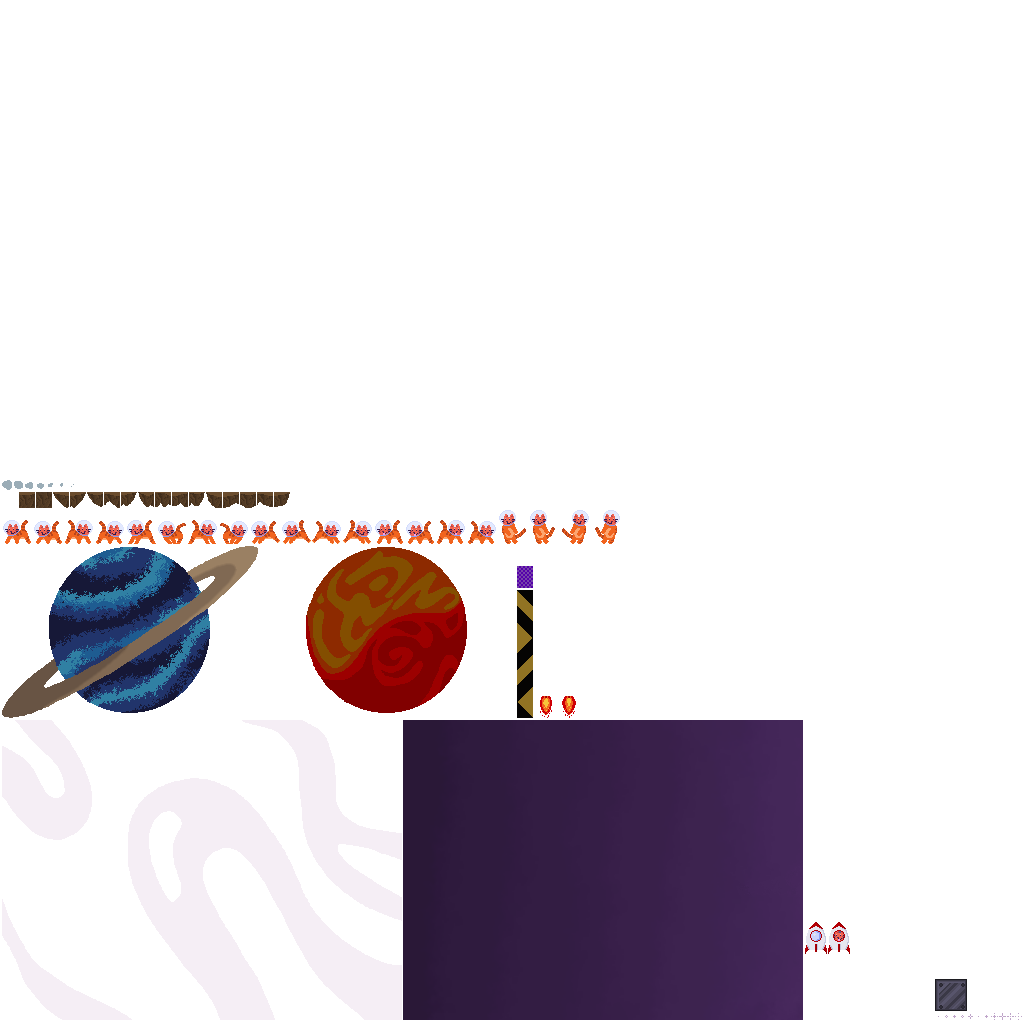
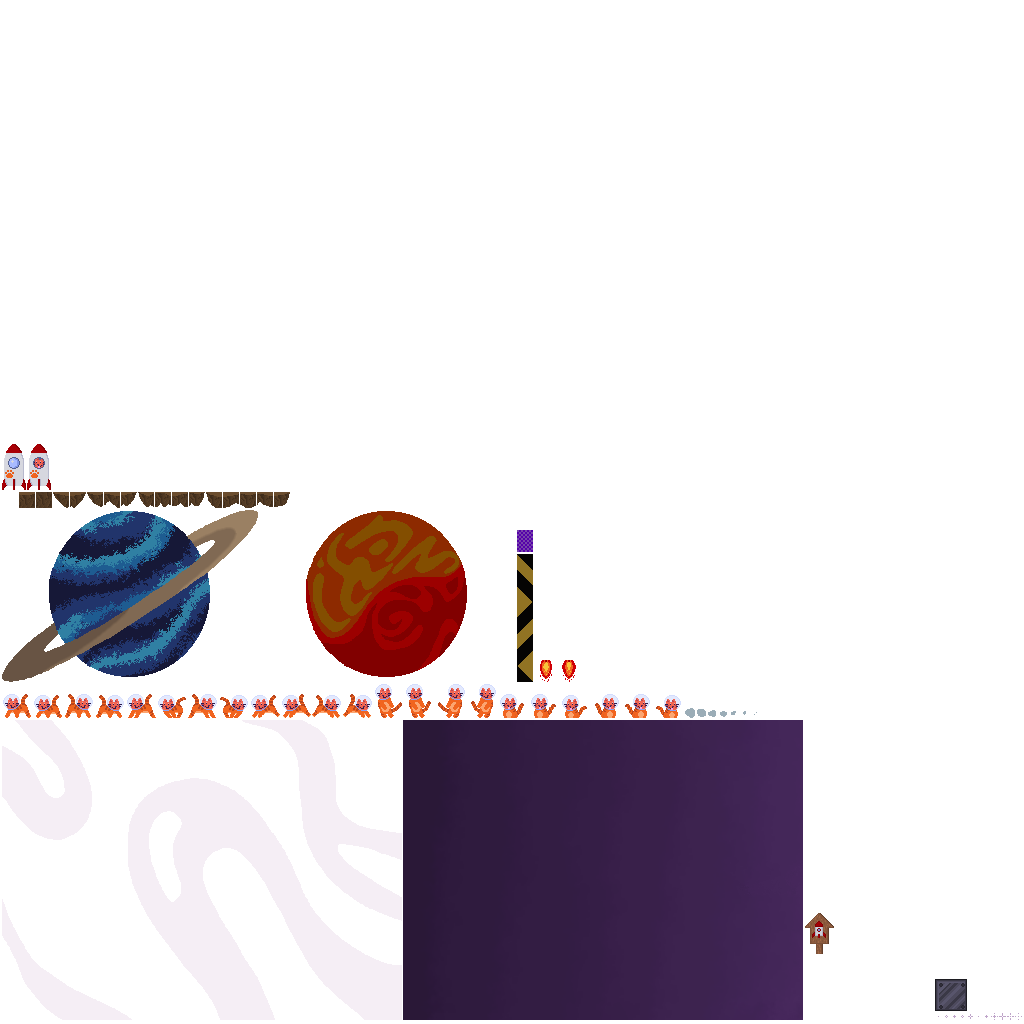
fire added to rocket, sitting added to cat, signs added

Changed region(s): [[0.0, 0.4375, 0.6875, 0.7188], [0.7812, 0.875, 0.8438, 0.9375]]

diff --git a/core/src/me/schmausio/limspace/Main.java b/core/src/me/schmausio/limspace/Main.java
@@ -19,79 +19,79 @@ public class Main extends ApplicationAdapter
 
   public final static int SCREEN_WIDTH = 400, SCREEN_HEIGHT = 300;
 
-	public static final boolean DEBUG = true;
+  public static final boolean DEBUG = true;
 
-	public static final boolean RENDER_DEBUG_INFO = false;
-	public static final boolean RELEASE = false;
+  public static final boolean RENDER_DEBUG_INFO = false;
+  public static final boolean RELEASE = false;
 
   @Override
   public void create()
   {
-		// TESTING
+    // TESTING
 
-		camera = new OrthographicCamera();
-		viewport = new FitViewport(SCREEN_WIDTH, SCREEN_HEIGHT, camera);
+    camera = new OrthographicCamera();
+    viewport = new FitViewport(SCREEN_WIDTH, SCREEN_HEIGHT, camera);
 
-		batch = new SpriteBatch();
-		Res.load();
+    batch = new SpriteBatch();
+    Res.load();
 
-		Text.init();
+    Text.init();
 
-		Config.load_config(true);
+    Config.load_config(true);
 
-		World.level_name = "schmausel";
-		World.init_status(World.WorldStatus.LOAD_LEVEL);
+    World.level_name = "schmausel";
+    World.init_status(World.WorldStatus.LOAD_LEVEL);
   }
 
-	@Override
-	public void render()
-	{
-		// TODO: 30.09.23 change color 
-		ScreenUtils.clear(145 / 255f,220 / 255f,233 / 255f, 1);
+  @Override
+  public void render()
+  {
+    // TODO: 30.09.23 change color
+    ScreenUtils.clear(145 / 255f, 220 / 255f, 233 / 255f, 1);
 
-		float d = Gdx.graphics.getDeltaTime();
+    float d = Gdx.graphics.getDeltaTime();
 
-		update(Math.min(d, 0.1f));
+    update(Math.min(d, 0.1f));
 
-		camera.update();
-		batch.setProjectionMatrix(camera.combined);
+    camera.update();
+    batch.setProjectionMatrix(camera.combined);
 
-		batch.begin();
+    batch.begin();
 
-		World.render();
+    World.render();
 
-		// for now no sorting of the text entries happens, since it is not needed in this project
-		for (int i = 0; i < smx_text_data.num_lines(); i++)
-		{
-			Text.render_from_text_smx(smx_text_data, i);
+    // for now no sorting of the text entries happens, since it is not needed in this project
+    for (int i = 0; i < smx_text_data.num_lines(); i++)
+    {
+      Text.render_from_text_smx(smx_text_data, i);
 
-			// free entries after rendering
-			smx_text_data.clear_line(i);
-		}
+      // free entries after rendering
+      smx_text_data.clear_line(i);
+    }
 
-		batch.end();
-	}
+    batch.end();
+  }
 
-	@Override
-	public void resize(int width, int height)
-	{
-		viewport.update(width, height, true);
-	}
+  @Override
+  public void resize(int width, int height)
+  {
+    viewport.update(width, height, true);
+  }
 
-	private void update(float delta)
-	{
-		World.update(delta);
-	}
+  private void update(float delta)
+  {
+    World.update(delta);
+  }
 
-	@Override
-	public void dispose()
-	{
-		if(Main.DEBUG)
-		{
-			World.save_chunks();
-		}
-		batch.dispose();
-		Res.dispose();
-		Text.dispose();
-	}
+  @Override
+  public void dispose()
+  {
+    if (Main.DEBUG)
+    {
+      World.save_chunks();
+    }
+    batch.dispose();
+    Res.dispose();
+    Text.dispose();
+  }
 }

diff --git a/core/src/me/schmausio/limspace/Entity.java b/core/src/me/schmausio/limspace/Entity.java
@@ -37,6 +37,8 @@ public class Entity
   static int wutz_life = 3;
   static float time_blink = 0f;
 
+  public static float cat_wait = 0f;
+
   static float check_point_x = Chunk.TILE_SIZE * 10;
   static float check_point_y = Chunk.TILE_SIZE * 30;
 
@@ -438,6 +440,17 @@ public class Entity
       float[] ret = anim.update(anim_time, delta);
       anim_time = ret[0];
     }
+
+    if (type == EntityType.PLAYER)
+    {
+      if (vx == 0 && vy == 0)
+      {
+        cat_wait += delta;
+      } else
+      {
+        cat_wait = 0f;
+      }
+    }
   }
 
   public void render()
@@ -445,7 +458,7 @@ public class Entity
     float px = World.global_offset_x + posx;
     float py = World.global_offset_y + posy;
 
-    if(dead ) return;
+    if (dead) return;
 
     switch (type)
     {
@@ -461,8 +474,17 @@ public class Entity
       }
       break;
       case ROCKET:
+      {
         Main.batch.draw(Res.ROCKET_CAT.sheet[0], px - Res.ROCKET_CAT.sheet[0].getRegionWidth() / 2f, py);
-        break;
+      }
+      break;
+
+      case SIGN:
+      {
+        Main.batch.draw(Res.SIGN.region, px - Res.SIGN.region.getRegionWidth() / 2f, py);
+      }
+      break;
+
       //case ENEMY_MUSHROOM:
       //{
       //   TextureRegion reg = Res.get_frame(anim_time, anim, flip);
@@ -486,6 +508,9 @@ public class Entity
     PLAYER(true, false, false),
 
     ROCKET(false, false, true),
+
+    SIGN(false, false, true),
+
 
     ;
 
@@ -519,8 +544,12 @@ public class Entity
       switch (this)
       {
         case PLAYER:
-          // TODO: 30.09.23 fix
-          ret = right ? Anim.CAT_IDLE_RIGHT : Anim.CAT_IDLE_LEFT;
+          if(cat_wait > Config.CONF.TIME_SIT.value){
+            ret = right ? Anim.CAT_SCHLECK_RIGHT : Anim.CAT_SCHLECK_LEFT;
+          }else
+          {
+            ret = right ? Anim.CAT_IDLE_RIGHT : Anim.CAT_IDLE_LEFT;
+          }
           break;
       }
       return ret;

diff --git a/core/src/me/schmausio/limspace/World.java b/core/src/me/schmausio/limspace/World.java
@@ -132,6 +132,8 @@ public class World
   public static int rocket_start_x, rocket_start_y;
   public static float rocket_progress = 0f;
 
+  public static float fire_anim_progress = 0f;
+
   static
   {
     gameover_pause_back.a = 0.5f;
@@ -364,6 +366,10 @@ public class World
             }
           }
         }
+
+        float[] ret_val = Anim.ROCKET_FIRE.update(fire_anim_progress, delta);
+        fire_anim_progress = ret_val[0];
+
       }
       break;
 
@@ -1042,6 +1048,9 @@ public class World
 
           Text.draw("num. entities " + list_entities.size, 2, Main.SCREEN_HEIGHT - debug_off, debug_text_color);
           debug_off += 10;
+
+          Text.draw("cat wait " + Entity.cat_wait, 2, Main.SCREEN_HEIGHT - debug_off, debug_text_color);
+          debug_off += 10;
         }
 
         global_offset_x = -player.posx + Main.SCREEN_WIDTH / 2f + camera_offset_x;
@@ -1152,6 +1161,8 @@ public class World
 
           float rocket_lerped_x = MathUtils.lerp(rocket_start_x, rocket_start_x + 30, Interpolation.smooth.apply(rocket_progress));
           float rocket_lerped_y = MathUtils.lerp(rocket_start_y, rocket_start_y + 250, Interpolation.smooth.apply(rocket_progress));
+
+          Main.batch.draw(Res.ROCKET_FIRE.sheet[Anim.ROCKET_FIRE.get_frame(fire_anim_progress)], rocket_lerped_x - Res.ROCKET_FIRE.sheet[0].getRegionWidth() / 2f, rocket_lerped_y - Config.CONF.ROCKET_FIRE_YOFF.value);
           Main.batch.draw(Res.ROCKET_CAT.sheet[1], rocket_lerped_x - Res.ROCKET_CAT.sheet[1].getRegionWidth() / 2f, rocket_lerped_y);
         }
       }

diff --git a/core/src/me/schmausio/limspace/Chunk.java b/core/src/me/schmausio/limspace/Chunk.java
@@ -49,6 +49,13 @@ public class Chunk implements Json.Serializable
             World.list_spawn.add(entity);
           }
           break;
+          case SIGN:
+          {
+            Entity entity = new Entity(px, py, Entity.EntityType.SIGN);
+            entity.origin_chunk = combined_pos;
+            World.list_spawn.add(entity);
+          }
+          break;
         }
       }
     }
@@ -120,7 +127,7 @@ public class Chunk implements Json.Serializable
         Main.batch.setColor(Color.WHITE);
         Main.batch.draw(Res.PLATFORM.sheet[tiles.get(ix, iy)], px, py);
 
-        if(World.status == World.WorldStatus.EDIT_CHUNKS)
+        if (World.status == World.WorldStatus.EDIT_CHUNKS)
         {
           Chunk_Object co = Chunk_Object.safe_ord(objects.get(ix, iy));
           if (co != Chunk_Object.NONE)
@@ -242,6 +249,8 @@ public class Chunk implements Json.Serializable
     // objects encoded in G value of a pixel in the chunk image
     NONE,
     ROCKET,
+
+    SIGN,
     ;
 
     public static Chunk_Object safe_ord(int ordinal)
@@ -262,6 +271,9 @@ public class Chunk implements Json.Serializable
       {
         case ROCKET:
           ret = Res.ROCKET_CAT.sheet[0];
+          break;
+        case SIGN:
+          ret = Res.SIGN.region;
           break;
       }
       return ret;

diff --git a/core/src/me/schmausio/limspace/Res.java b/core/src/me/schmausio/limspace/Res.java
@@ -15,7 +15,7 @@ public enum Res
 
   PLATFORM(Tile.values().length, 16, 16),
 
-  CAT(20, 30, 34),
+  CAT(22, 30, 34),
 
   BACKGROUND(2, 400,300),
 
@@ -25,13 +25,15 @@ public enum Res
 
   WALL_BLOCK(),
 
-  ROCKET_CAT(3, 22, 32),
+  ROCKET_CAT(2, 24, 46),
 
   ROCKET_FIRE(2, 22,22),
 
   PLANETS(2, 256,172),
 
   SMOKE(7, 10, 10),
+
+  SIGN(),
   ;
 
   static final Array<Anim> load_queue = new Array<>();
@@ -82,10 +84,10 @@ public enum Res
     load_queue.add(Anim.CAT_RUN_RIGHT);
     load_queue.add(Anim.CAT_FALL_LEFT);
     load_queue.add(Anim.CAT_FALL_RIGHT);
-    load_queue.add(Anim.CAT_SCHLECK_LEFT);
-    load_queue.add(Anim.CAT_SCHLECK_RIGHT);
     load_queue.add(Anim.CAT_JUMP_LEFT);
     load_queue.add(Anim.CAT_JUMP_RIGHT);
+    load_queue.add(Anim.CAT_SCHLECK_LEFT);
+    load_queue.add(Anim.CAT_SCHLECK_RIGHT);
     load_anims(CAT, 0);
     load_queue.clear();
 

diff --git a/core/src/me/schmausio/limspace/Anim.java b/core/src/me/schmausio/limspace/Anim.java
@@ -12,10 +12,11 @@ public enum Anim
   CAT_RUN_RIGHT(2, 0.08f, -1, false, 0, 1),
   CAT_FALL_LEFT(2, 0.2f, -1, false, 0, 1),
   CAT_FALL_RIGHT(2, 0.2f, -1, false, 0, 1),
-  CAT_SCHLECK_LEFT(2, 0.2f, -1, false, 0, 1),
-  CAT_SCHLECK_RIGHT(2, 0.2f, -1, false, 0, 1),
   CAT_JUMP_LEFT(2, 0.2f, -1, false, 0, 1),
   CAT_JUMP_RIGHT(2, 0.2f, -1, false, 0, 1),
+
+  CAT_SCHLECK_LEFT(3, 0.2f, -1, false, 0, 1, 2),
+  CAT_SCHLECK_RIGHT(3, 0.2f, -1, false, 0, 1, 2),
 
   STAR_STATIC(3, 0.1f, -1, false, 0, 1, 2),
   STAR_DYNAMIC_1(2, 0.8f, -1, false, 0, 1),
@@ -23,6 +24,7 @@ public enum Anim
   STAR_DYNAMIC_3(3, 0.6f, -1, false, 0, 1, 2),
 
   //ROCKET(2, 0.2f, -1, false, 0, 1),
+  ROCKET_FIRE(2, 0.1f, -1, false, 0, 1),
 
   SMOKE(7, 0.5f, -1, false, 0, 1, 2, 3, 4, 5, 6),
 

diff --git a/core/src/me/schmausio/limspace/Config.java b/core/src/me/schmausio/limspace/Config.java
@@ -82,9 +82,11 @@ public class Config
       WALL_VERTICAL_NUMBER,
       PLAYER_SPAWN_TILEX,
       PLAYER_SPAWN_TILEY,
+      TIME_SIT,
       ROCKET_SPEED,
       ROCKET_SMOKE_OFFSET,
       ROCKET_SMOKE_FALLSPEED,
+      ROCKET_FIRE_YOFF,
 
       EDITOR_MOVE_SPEED,
       EDITOR_TILE_OFFX,
